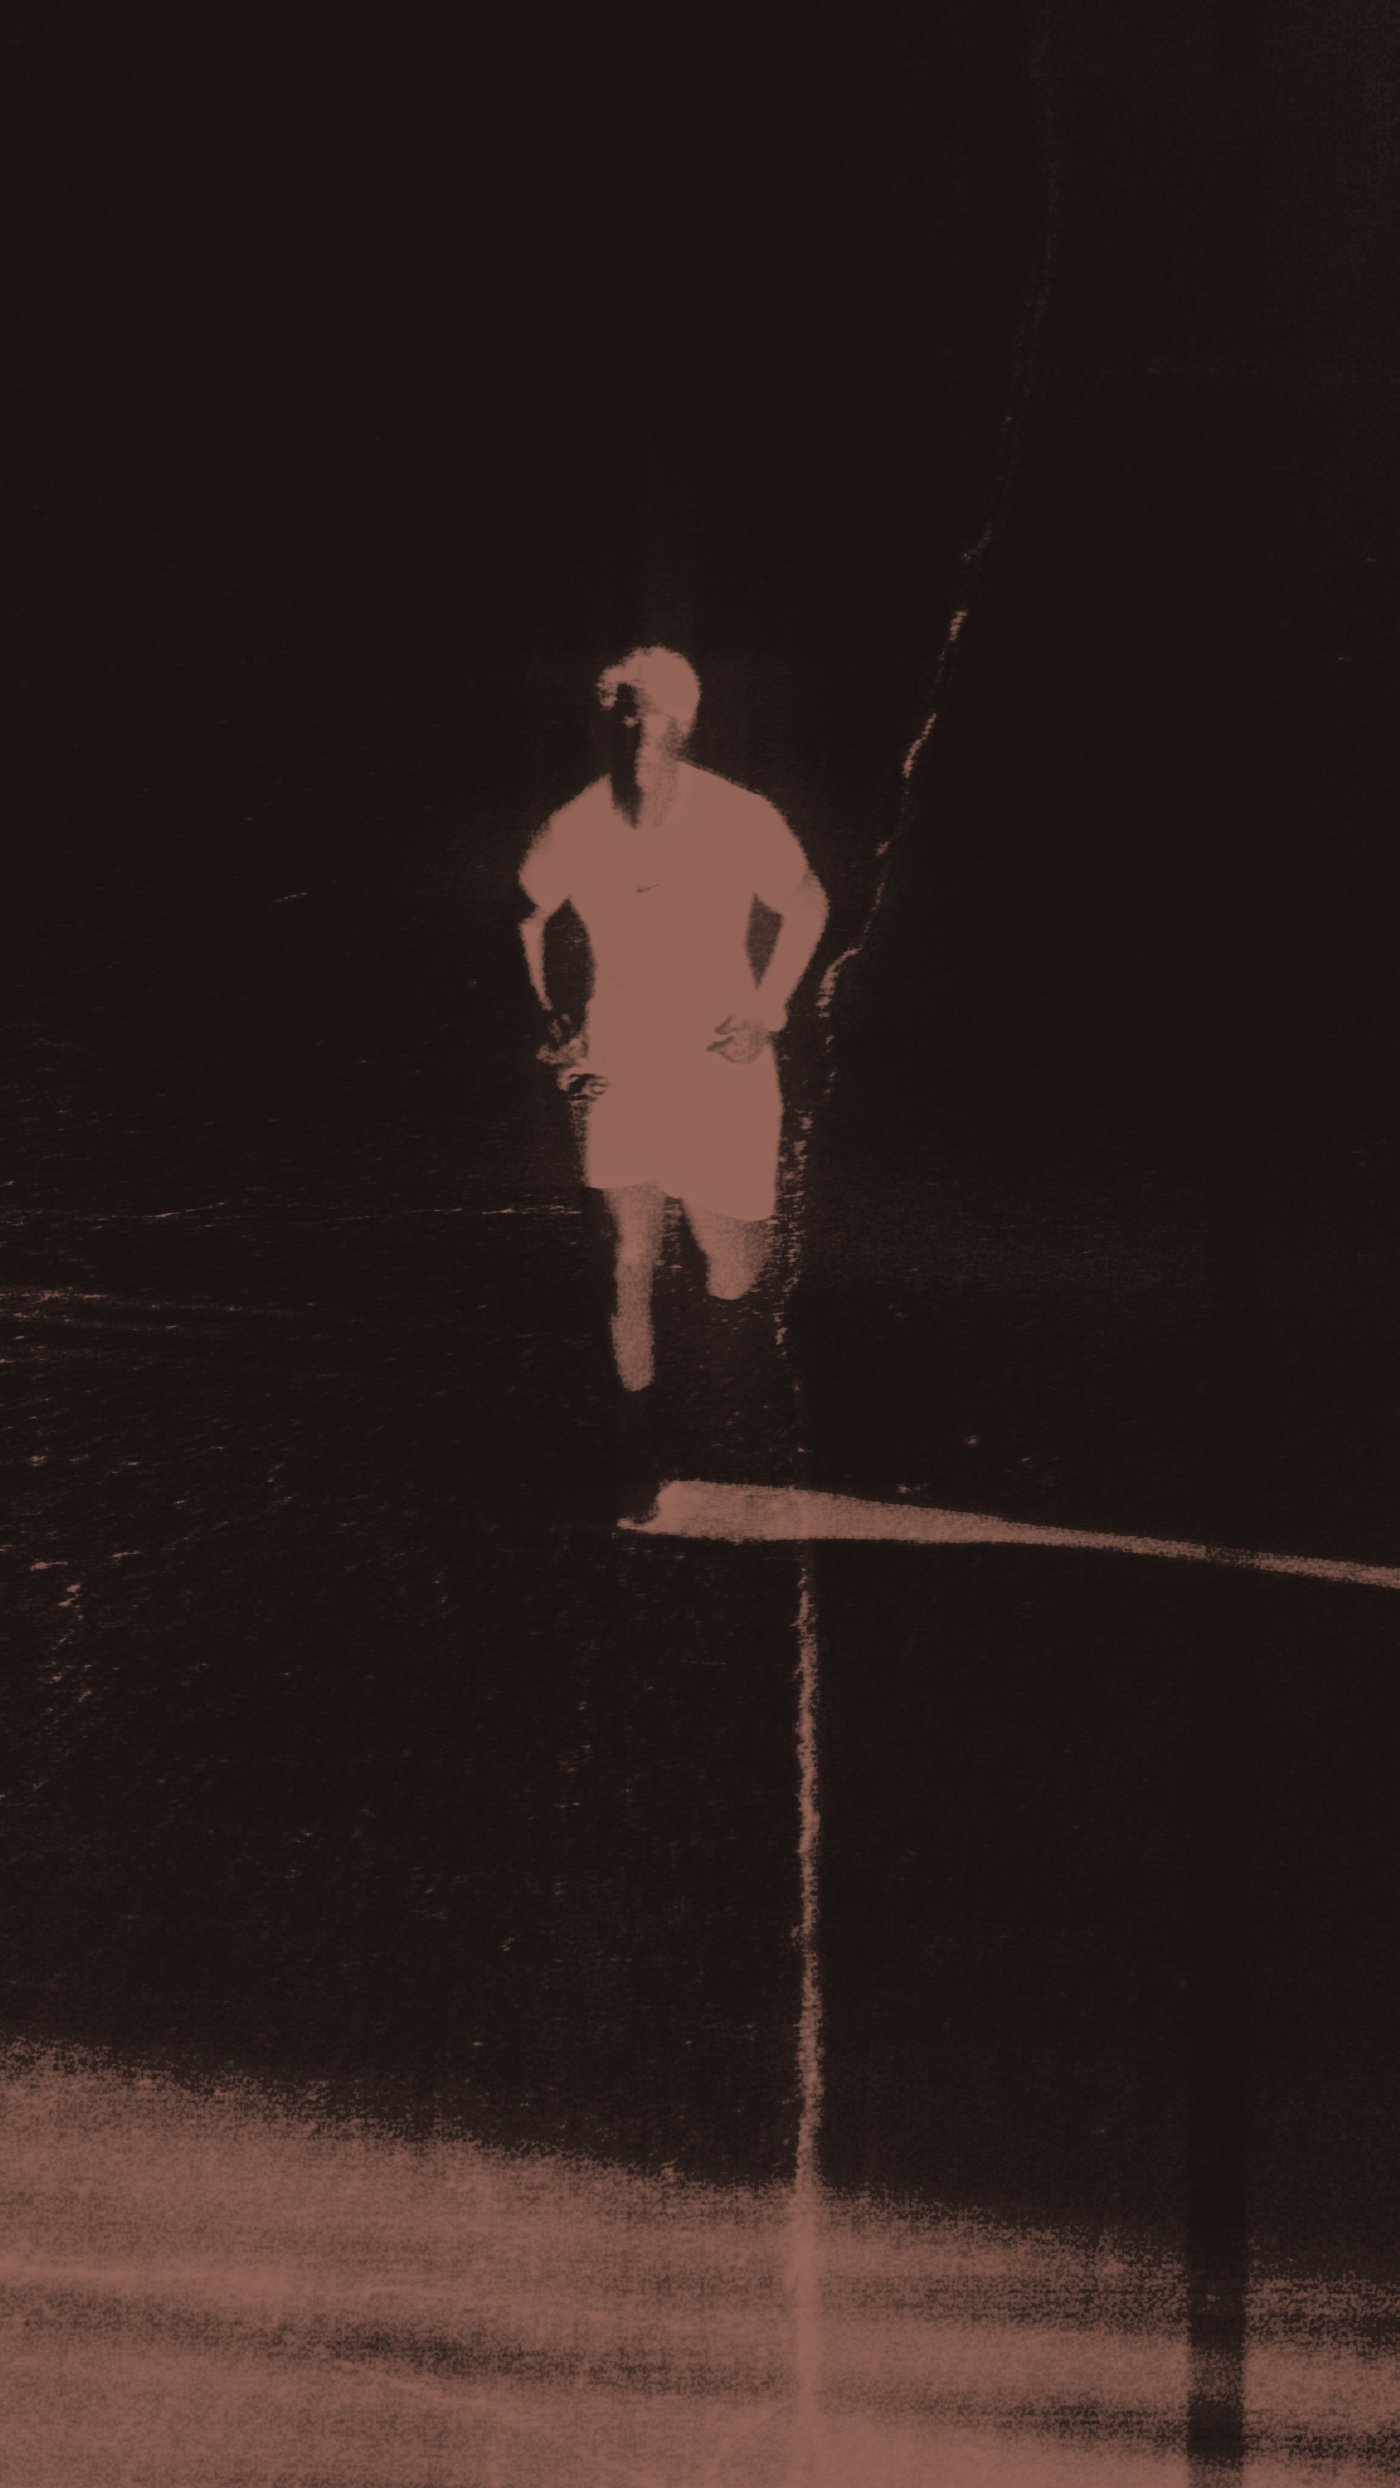
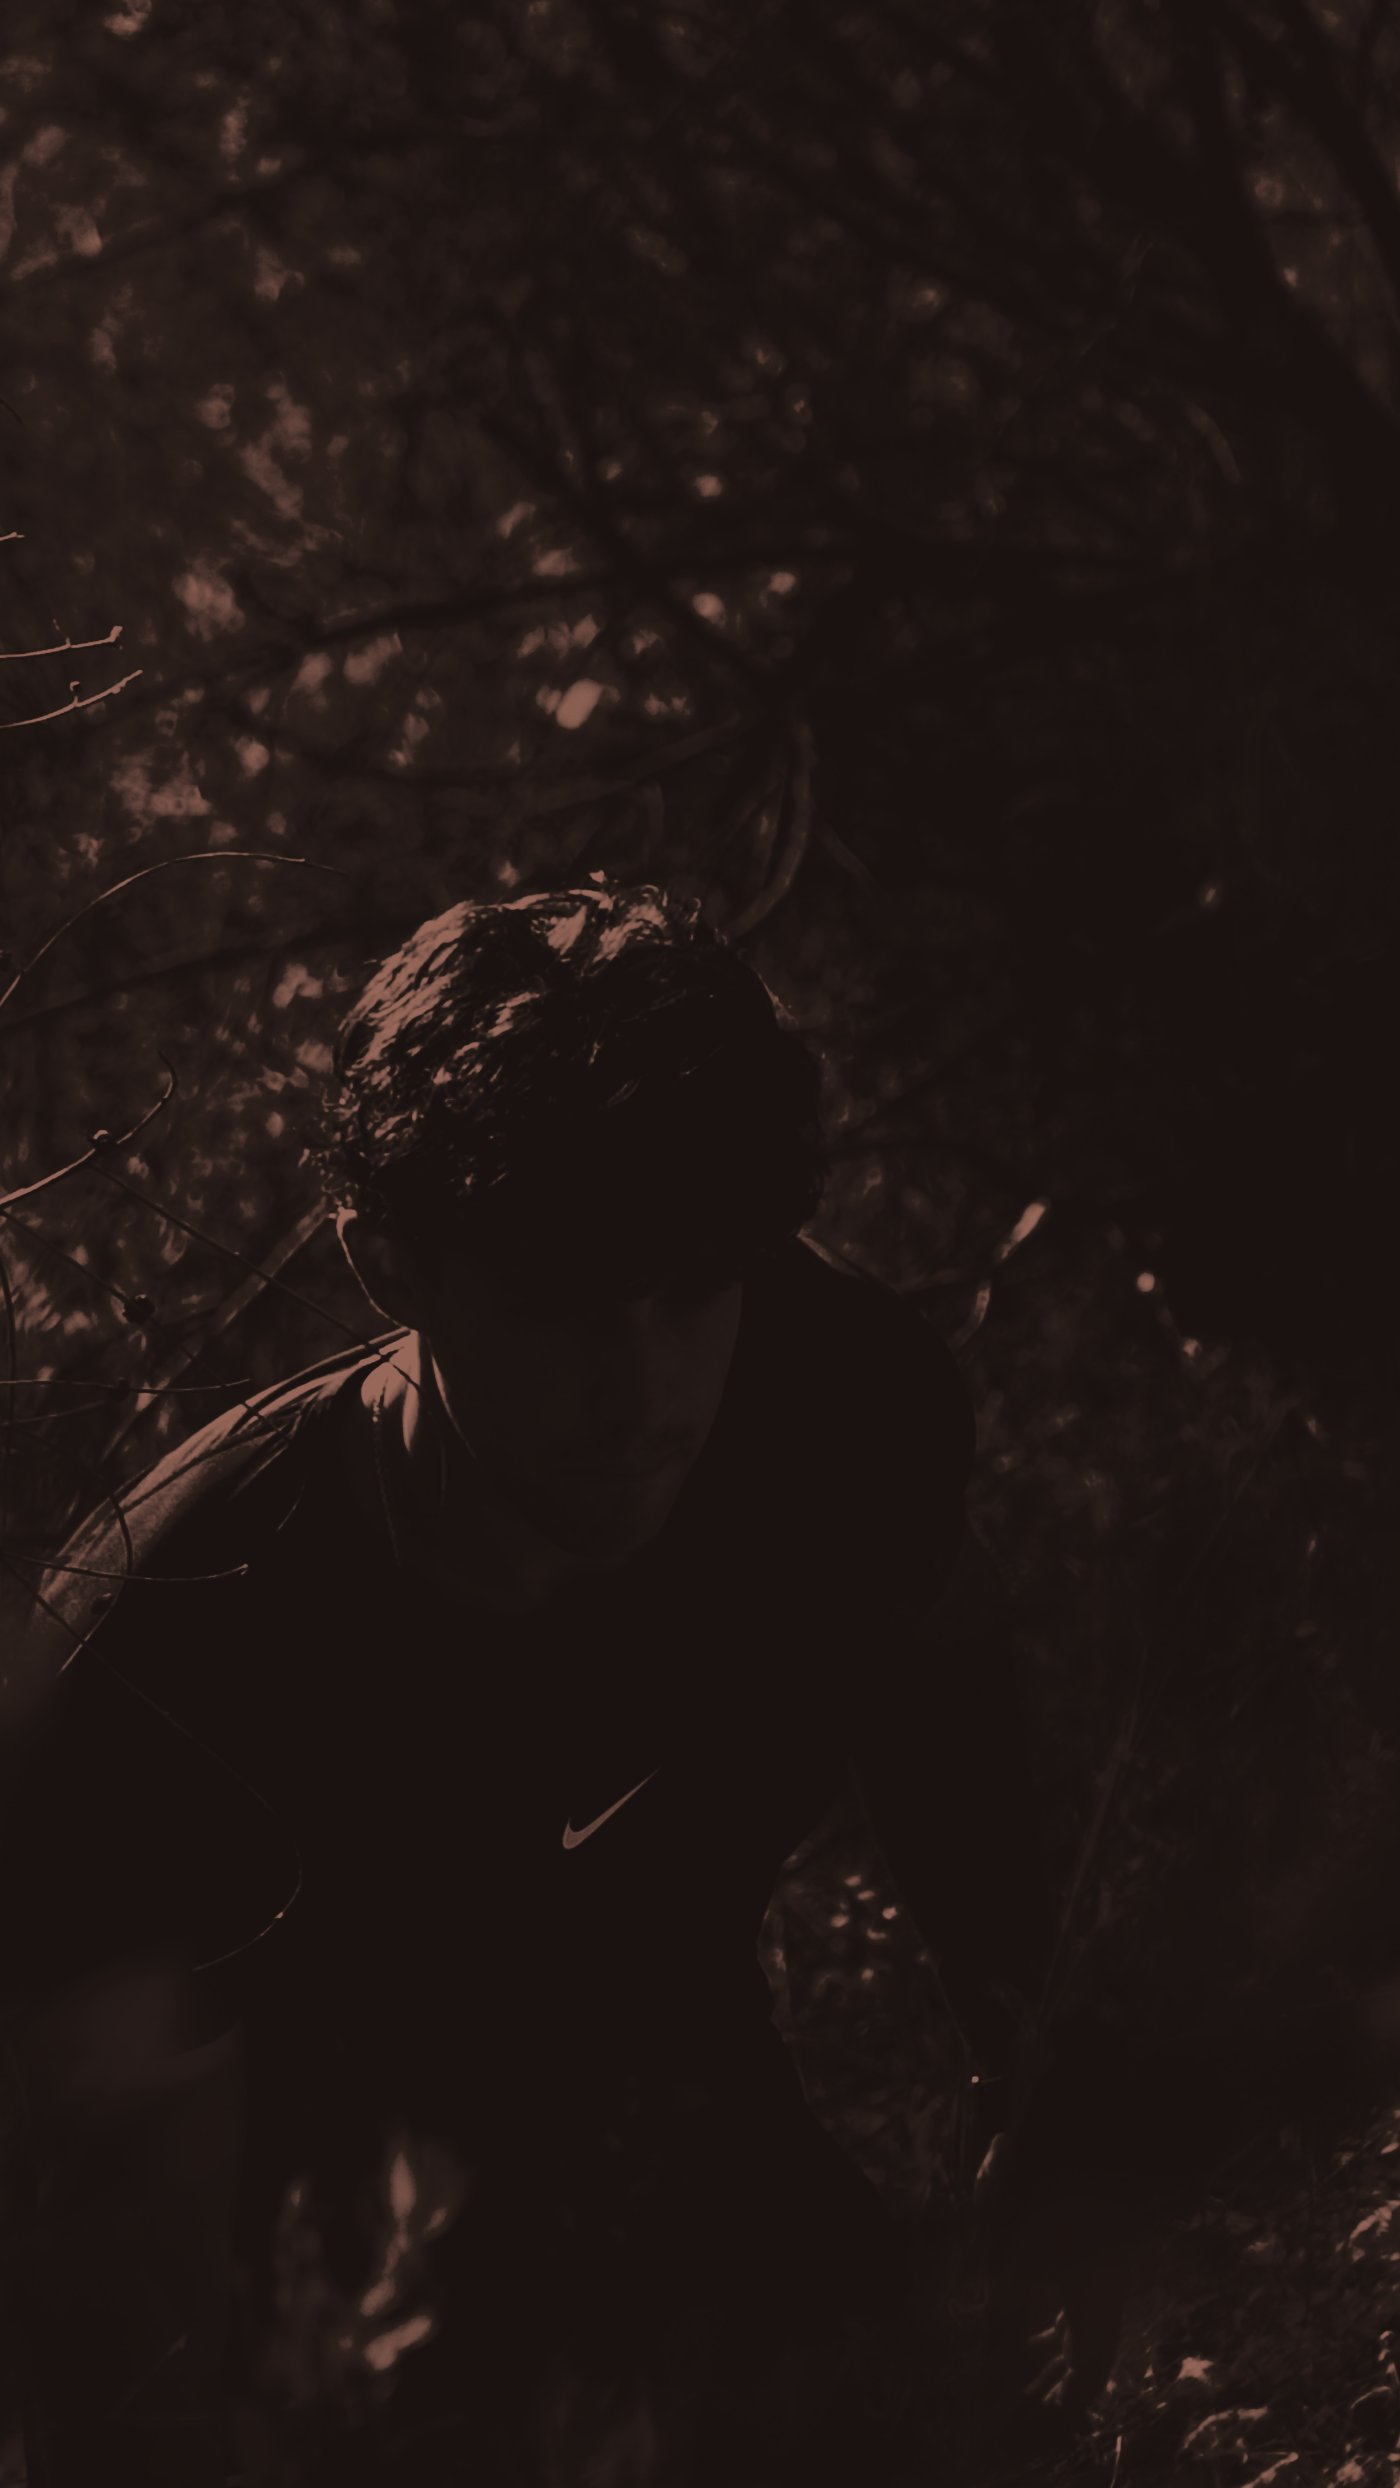
Añadir foto de fondo al hero y cambiar la foto de Comunidad

diff --git a/src/style.css b/src/style.css
@@ -180,6 +180,11 @@ body {
   justify-content: center;
   align-items: flex-start;
   padding-top: 140px;
+  background-color: #2e211d;
+  background-image: linear-gradient(180deg, rgba(46, 33, 29, 0.45), rgba(46, 33, 29, 0.65)), url('/images/hero-bg.jpg');
+  background-size: cover, 100% 114%;
+  background-position: center, center 70px;
+  background-repeat: no-repeat, no-repeat;
 }
 
 .hero__eyebrow {
